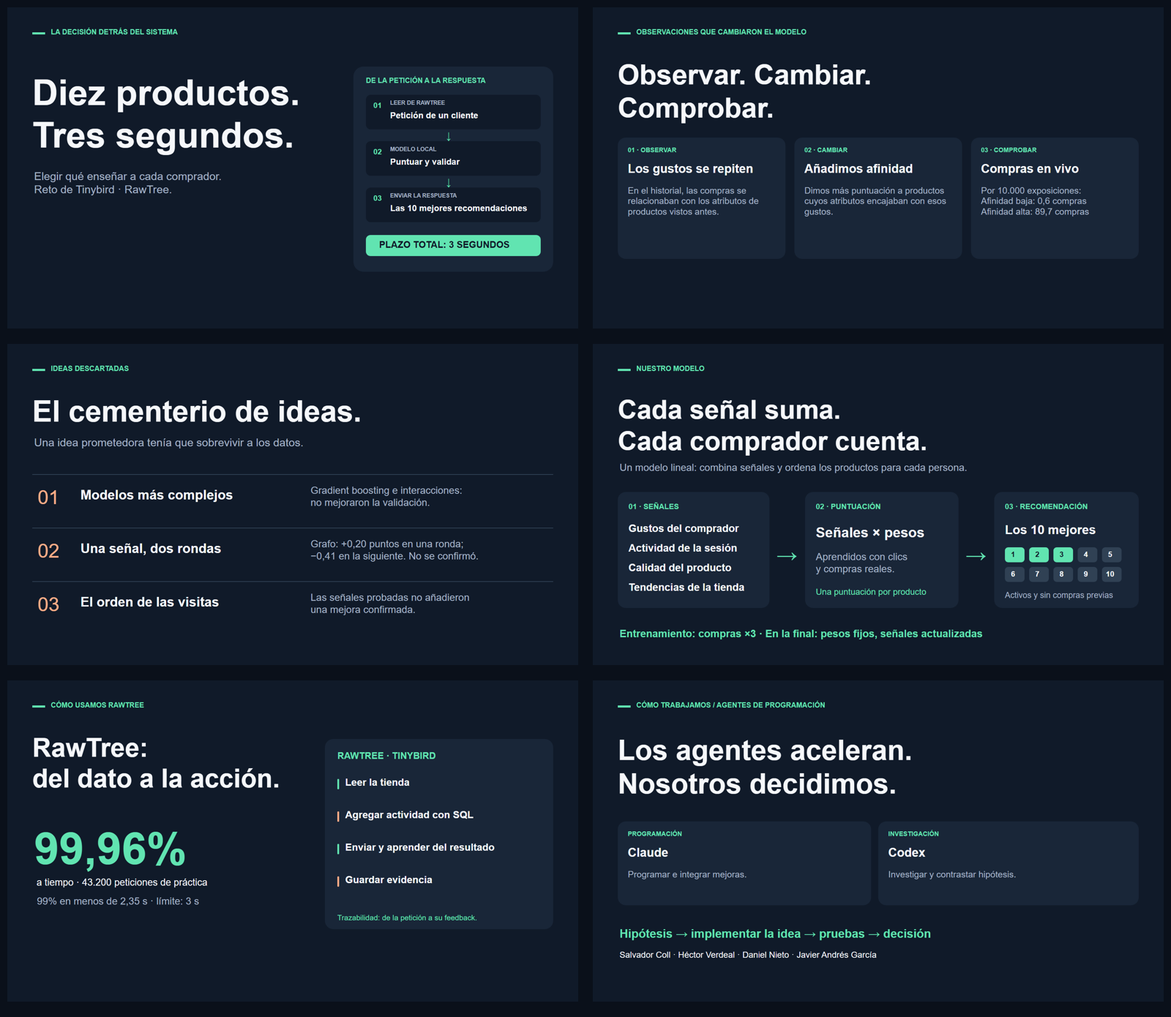
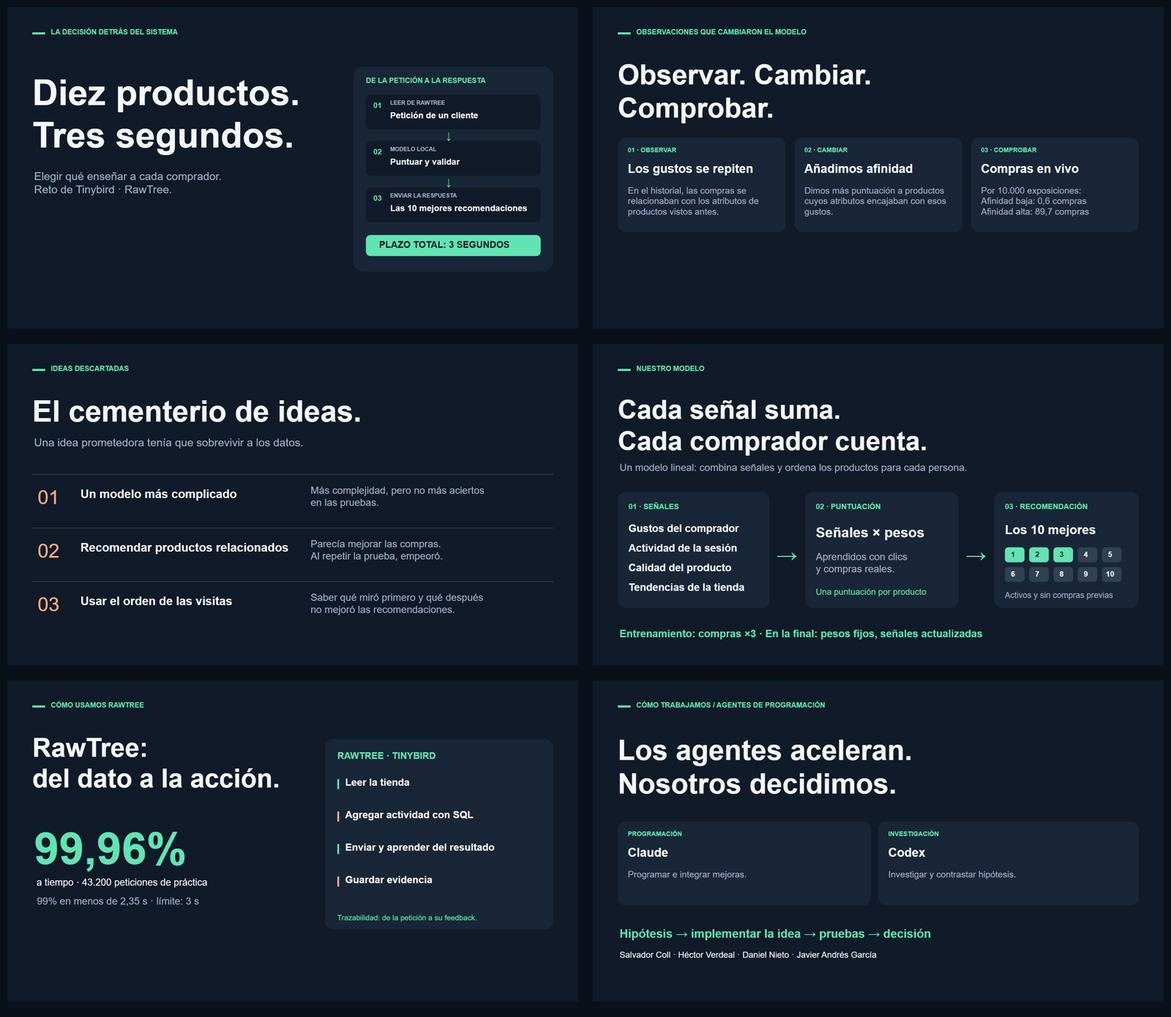
presentation: compact cards and simplify rejected-idea wording

diff --git a/presentation/pitch_3min/pitch.html b/presentation/pitch_3min/pitch.html
@@ -17,7 +17,7 @@ aside{display:none;position:fixed;right:24px;top:24px;max-width:420px;padding:24
 
 dialog#versions{width:min(1440px,95vw);max-height:92vh;padding:12px;background:#101a29;color:#f5f7fa;border:1px solid #61e4b1;border-radius:18px}dialog#versions::backdrop{background:#000b}.close-data{position:sticky;top:0;float:right;z-index:2}
 @page{size:13.333333in 7.5in;margin:0}@media print{html,body,#stage{width:13.333333in;height:auto}#stage{display:block}.slide,.slide.active{display:block;width:13.333333in;height:7.5in;break-after:page;page-break-after:always}.slide:last-child{break-after:auto;page-break-after:auto}nav,aside,dialog{display:none!important}*{-webkit-print-color-adjust:exact;print-color-adjust:exact}}
-</style><main id="stage"><section class="slide" aria-label="Diapositiva 1"><svg xmlns="http://www.w3.org/2000/svg" viewBox="0 0 1600 900" role="img" aria-label="Diez productos. Tres segundos."><rect x="0" y="0" width="1600" height="900" rx="0" fill="#101A29"/><rect x="70" y="70" width="36" height="6" rx="0" fill="#61E4B1"/><text fill="#61E4B1" font-family="Arial, sans-serif" font-size="20" font-weight="700"><tspan x="122" y="75.8">LA DECISIÓN DETRÁS DEL SISTEMA</tspan></text><text fill="#F5F7FA" font-family="Arial, sans-serif" font-size="100" font-weight="700"><tspan x="70" y="274.0">Diez productos.</tspan><tspan x="70" y="393.0">Tres segundos.</tspan></text><text fill="#A6B5C8" font-family="Arial, sans-serif" font-size="31" font-weight="400"><tspan x="75" y="484.14">Elegir qué enseñar a cada comprador.</tspan><tspan x="75" y="521.03">Reto de Tinybird · RawTree.</tspan></text><rect x="970" y="166" width="560" height="575" rx="28" fill="#192638"/><text fill="#61E4B1" font-family="Arial, sans-serif" font-size="20" font-weight="700"><tspan x="1005" y="211.8">DE LA PETICIÓN A LA RESPUESTA</tspan></text><rect x="1005" y="245" width="490" height="97" rx="14" fill="#101A29"/><text fill="#61E4B1" font-family="Arial, sans-serif" font-size="21" font-weight="700"><tspan x="1026" y="281.74">01</tspan></text><text fill="#A6B5C8" font-family="Arial, sans-serif" font-size="16" font-weight="700"><tspan x="1073" y="273.04">LEER DE RAWTREE</tspan></text><text fill="#F5F7FA" font-family="Arial, sans-serif" font-size="24" font-weight="700"><tspan x="1073" y="310.56">Petición de un cliente</tspan></text><text fill="#61E4B1" font-family="Arial, sans-serif" font-size="28" font-weight="400"><tspan x="1230" y="369.32">↓</tspan></text><rect x="1005" y="375" width="490" height="97" rx="14" fill="#101A29"/><text fill="#61E4B1" font-family="Arial, sans-serif" font-size="21" font-weight="700"><tspan x="1026" y="411.74">02</tspan></text><text fill="#A6B5C8" font-family="Arial, sans-serif" font-size="16" font-weight="700"><tspan x="1073" y="403.04">MODELO LOCAL</tspan></text><text fill="#F5F7FA" font-family="Arial, sans-serif" font-size="24" font-weight="700"><tspan x="1073" y="440.56">Puntuar y validar</tspan></text><text fill="#61E4B1" font-family="Arial, sans-serif" font-size="28" font-weight="400"><tspan x="1230" y="499.32">↓</tspan></text><rect x="1005" y="505" width="490" height="97" rx="14" fill="#101A29"/><text fill="#61E4B1" font-family="Arial, sans-serif" font-size="21" font-weight="700"><tspan x="1026" y="541.74">03</tspan></text><text fill="#A6B5C8" font-family="Arial, sans-serif" font-size="16" font-weight="700"><tspan x="1073" y="533.04">ENVIAR LA RESPUESTA</tspan></text><text fill="#F5F7FA" font-family="Arial, sans-serif" font-size="24" font-weight="700"><tspan x="1073" y="570.56">Las 10 mejores recomendaciones</tspan></text><rect x="1005" y="638" width="490" height="59" rx="13" fill="#61E4B1"/><text fill="#101A29" font-family="Arial, sans-serif" font-size="26" font-weight="700"><tspan x="1042" y="674.44">PLAZO TOTAL: 3 SEGUNDOS</tspan></text></svg></section><section class="slide" aria-label="Diapositiva 2"><svg xmlns="http://www.w3.org/2000/svg" viewBox="0 0 1600 900" role="img" aria-label="Observar. Cambiar. Comprobar."><rect x="0" y="0" width="1600" height="900" rx="0" fill="#101A29"/><rect x="70" y="70" width="36" height="6" rx="0" fill="#61E4B1"/><text fill="#61E4B1" font-family="Arial, sans-serif" font-size="20" font-weight="700"><tspan x="122" y="75.8">OBSERVACIONES QUE CAMBIARON EL MODELO</tspan></text><text fill="#F5F7FA" font-family="Arial, sans-serif" font-size="78" font-weight="700"><tspan x="70" y="216.32">Observar. Cambiar.</tspan><tspan x="70" y="309.14">Comprobar.</tspan></text><rect x="70" y="365" width="470" height="340" rx="22" fill="#192638"/><text fill="#61E4B1" font-family="Arial, sans-serif" font-size="18" font-weight="700"><tspan x="98" y="405.92">01 · OBSERVAR</tspan></text><text fill="#F5F7FA" font-family="Arial, sans-serif" font-size="34" font-weight="700"><tspan x="98" y="463.96">Los gustos se repiten</tspan></text><text fill="#A6B5C8" font-family="Arial, sans-serif" font-size="25" font-weight="400"><tspan x="98" y="521.5">En el historial, las compras se</tspan><tspan x="98" y="551.25">relacionaban con los atributos de</tspan><tspan x="98" y="581.0">productos vistos antes.</tspan></text><rect x="565" y="365" width="470" height="340" rx="22" fill="#192638"/><text fill="#61E4B1" font-family="Arial, sans-serif" font-size="18" font-weight="700"><tspan x="593" y="405.92">02 · CAMBIAR</tspan></text><text fill="#F5F7FA" font-family="Arial, sans-serif" font-size="34" font-weight="700"><tspan x="593" y="463.96">Añadimos afinidad</tspan></text><text fill="#A6B5C8" font-family="Arial, sans-serif" font-size="25" font-weight="400"><tspan x="593" y="521.5">Dimos más puntuación a productos</tspan><tspan x="593" y="551.25">cuyos atributos encajaban con esos</tspan><tspan x="593" y="581.0">gustos.</tspan></text><rect x="1060" y="365" width="470" height="340" rx="22" fill="#192638"/><text fill="#61E4B1" font-family="Arial, sans-serif" font-size="18" font-weight="700"><tspan x="1088" y="405.92">03 · COMPROBAR</tspan></text><text fill="#F5F7FA" font-family="Arial, sans-serif" font-size="34" font-weight="700"><tspan x="1088" y="463.96">Compras en vivo</tspan></text><text fill="#A6B5C8" font-family="Arial, sans-serif" font-size="25" font-weight="400"><tspan x="1088" y="521.5">Por 10.000 exposiciones:</tspan><tspan x="1088" y="551.25">Afinidad baja: 0,6 compras</tspan><tspan x="1088" y="581.0">Afinidad alta: 89,7 compras</tspan></text></svg></section><section class="slide" aria-label="Diapositiva 3"><svg xmlns="http://www.w3.org/2000/svg" viewBox="0 0 1600 900" role="img" aria-label="El cementerio de ideas."><rect x="0" y="0" width="1600" height="900" rx="0" fill="#101A29"/><rect x="70" y="70" width="36" height="6" rx="0" fill="#61E4B1"/><text fill="#61E4B1" font-family="Arial, sans-serif" font-size="20" font-weight="700"><tspan x="122" y="75.8">IDEAS DESCARTADAS</tspan></text><text fill="#F5F7FA" font-family="Arial, sans-serif" font-size="83" font-weight="700"><tspan x="70" y="218.01999999999998">El cementerio de ideas.</tspan></text><text fill="#A6B5C8" font-family="Arial, sans-serif" font-size="31" font-weight="400"><tspan x="75" y="287.14">Una idea prometedora tenía que sobrevivir a los datos.</tspan></text><rect x="70" y="365" width="1460" height="2" rx="0" fill="#304154"/><text fill="#FFAC86" font-family="Arial, sans-serif" font-size="55" font-weight="400"><tspan x="85" y="448.7">01</tspan></text><text fill="#F5F7FA" font-family="Arial, sans-serif" font-size="37" font-weight="700"><tspan x="205" y="435.78">Modelos más complejos</tspan></text><text fill="#A6B5C8" font-family="Arial, sans-serif" font-size="28" font-weight="400"><tspan x="850" y="420.32">Gradient boosting e interacciones:</tspan><tspan x="850" y="453.64">no mejoraron la validación.</tspan></text><rect x="70" y="515" width="1460" height="2" rx="0" fill="#304154"/><text fill="#FFAC86" font-family="Arial, sans-serif" font-size="55" font-weight="400"><tspan x="85" y="598.7">02</tspan></text><text fill="#F5F7FA" font-family="Arial, sans-serif" font-size="37" font-weight="700"><tspan x="205" y="585.78">Una señal, dos rondas</tspan></text><text fill="#A6B5C8" font-family="Arial, sans-serif" font-size="28" font-weight="400"><tspan x="850" y="570.32">Grafo: +0,20 puntos en una ronda;</tspan><tspan x="850" y="603.6400000000001">−0,41 en la siguiente. No se confirmó.</tspan></text><rect x="70" y="665" width="1460" height="2" rx="0" fill="#304154"/><text fill="#FFAC86" font-family="Arial, sans-serif" font-size="55" font-weight="400"><tspan x="85" y="748.7">03</tspan></text><text fill="#F5F7FA" font-family="Arial, sans-serif" font-size="37" font-weight="700"><tspan x="205" y="735.78">El orden de las visitas</tspan></text><text fill="#A6B5C8" font-family="Arial, sans-serif" font-size="28" font-weight="400"><tspan x="850" y="720.32">Las señales probadas no añadieron</tspan><tspan x="850" y="753.6400000000001">una mejora confirmada.</tspan></text></svg></section><section class="slide" aria-label="Diapositiva 4"><svg xmlns="http://www.w3.org/2000/svg" viewBox="0 0 1600 900" role="img" aria-label="Cada señal suma. Cada comprador cuenta."><rect x="0" y="0" width="1600" height="900" rx="0" fill="#101A29"/><rect x="70" y="70" width="36" height="6" rx="0" fill="#61E4B1"/><text fill="#61E4B1" font-family="Arial, sans-serif" font-size="20" font-weight="700"><tspan x="122" y="75.8">NUESTRO MODELO</tspan></text><text fill="#F5F7FA" font-family="Arial, sans-serif" font-size="74" font-weight="700"><tspan x="70" y="209.56">Cada señal suma.</tspan><tspan x="70" y="297.62">Cada comprador cuenta.</tspan></text><text fill="#A6B5C8" font-family="Arial, sans-serif" font-size="28" font-weight="400"><tspan x="75" y="356.32">Un modelo lineal: combina señales y ordena los productos para cada persona.</tspan></text><rect x="70" y="415" width="425" height="325" rx="22" fill="#192638"/><text fill="#61E4B1" font-family="Arial, sans-serif" font-size="21" font-weight="700"><tspan x="100" y="462.74">01 · SEÑALES</tspan></text><text fill="#F5F7FA" font-family="Arial, sans-serif" font-size="29" font-weight="700"><tspan x="100" y="527.26">Gustos del comprador</tspan></text><text fill="#F5F7FA" font-family="Arial, sans-serif" font-size="29" font-weight="700"><tspan x="100" y="582.26">Actividad de la sesión</tspan></text><text fill="#F5F7FA" font-family="Arial, sans-serif" font-size="29" font-weight="700"><tspan x="100" y="637.26">Calidad del producto</tspan></text><text fill="#F5F7FA" font-family="Arial, sans-serif" font-size="29" font-weight="700"><tspan x="100" y="692.26">Tendencias de la tienda</tspan></text><text fill="#61E4B1" font-family="Arial, sans-serif" font-size="58" font-weight="700"><tspan x="515" y="609.52">→</tspan></text><rect x="595" y="415" width="430" height="325" rx="22" fill="#192638"/><text fill="#61E4B1" font-family="Arial, sans-serif" font-size="21" font-weight="700"><tspan x="625" y="462.74">02 · PUNTUACIÓN</tspan></text><text fill="#F5F7FA" font-family="Arial, sans-serif" font-size="39" font-weight="700"><tspan x="625" y="541.66">Señales × pesos</tspan></text><text fill="#A6B5C8" font-family="Arial, sans-serif" font-size="28" font-weight="400"><tspan x="625" y="606.32">Aprendidos con clics</tspan><tspan x="625" y="639.6400000000001">y compras reales.</tspan></text><text fill="#61E4B1" font-family="Arial, sans-serif" font-size="24" font-weight="400"><tspan x="625" y="702.56">Una puntuación por producto</tspan></text><text fill="#61E4B1" font-family="Arial, sans-serif" font-size="58" font-weight="700"><tspan x="1045" y="609.52">→</tspan></text><rect x="1125" y="415" width="405" height="325" rx="22" fill="#192638"/><text fill="#61E4B1" font-family="Arial, sans-serif" font-size="21" font-weight="700"><tspan x="1155" y="462.74">03 · RECOMENDACIÓN</tspan></text><text fill="#F5F7FA" font-family="Arial, sans-serif" font-size="35" font-weight="700"><tspan x="1155" y="532.9">Los 10 mejores</tspan></text><rect x="1155" y="570" width="55" height="42" rx="9" fill="#61E4B1"/><text fill="#101A29" font-family="Arial, sans-serif" font-size="21" font-weight="700"><tspan x="1172" y="596.74">1</tspan></text><rect x="1223" y="570" width="55" height="42" rx="9" fill="#61E4B1"/><text fill="#101A29" font-family="Arial, sans-serif" font-size="21" font-weight="700"><tspan x="1240" y="596.74">2</tspan></text><rect x="1291" y="570" width="55" height="42" rx="9" fill="#61E4B1"/><text fill="#101A29" font-family="Arial, sans-serif" font-size="21" font-weight="700"><tspan x="1308" y="596.74">3</tspan></text><rect x="1359" y="570" width="55" height="42" rx="9" fill="#304154"/><text fill="#F5F7FA" font-family="Arial, sans-serif" font-size="21" font-weight="700"><tspan x="1376" y="596.74">4</tspan></text><rect x="1427" y="570" width="55" height="42" rx="9" fill="#304154"/><text fill="#F5F7FA" font-family="Arial, sans-serif" font-size="21" font-weight="700"><tspan x="1444" y="596.74">5</tspan></text><rect x="1155" y="625" width="55" height="42" rx="9" fill="#304154"/><text fill="#F5F7FA" font-family="Arial, sans-serif" font-size="21" font-weight="700"><tspan x="1172" y="651.74">6</tspan></text><rect x="1223" y="625" width="55" height="42" rx="9" fill="#304154"/><text fill="#F5F7FA" font-family="Arial, sans-serif" font-size="21" font-weight="700"><tspan x="1240" y="651.74">7</tspan></text><rect x="1291" y="625" width="55" height="42" rx="9" fill="#304154"/><text fill="#F5F7FA" font-family="Arial, sans-serif" font-size="21" font-weight="700"><tspan x="1308" y="651.74">8</tspan></text><rect x="1359" y="625" width="55" height="42" rx="9" fill="#304154"/><text fill="#F5F7FA" font-family="Arial, sans-serif" font-size="21" font-weight="700"><tspan x="1376" y="651.74">9</tspan></text><rect x="1427" y="625" width="55" height="42" rx="9" fill="#304154"/><text fill="#F5F7FA" font-family="Arial, sans-serif" font-size="21" font-weight="700"><tspan x="1438" y="651.74">10</tspan></text><text fill="#A6B5C8" font-family="Arial, sans-serif" font-size="23" font-weight="400"><tspan x="1155" y="711.62">Activos y sin compras previas</tspan></text><text fill="#61E4B1" font-family="Arial, sans-serif" font-size="29" font-weight="700"><tspan x="75" y="822.26">Entrenamiento: compras ×3 · En la final: pesos fijos, señales actualizadas</tspan></text></svg></section><section class="slide" aria-label="Diapositiva 5"><svg xmlns="http://www.w3.org/2000/svg" viewBox="0 0 1600 900" role="img" aria-label="RawTree: del dato a la acción."><rect x="0" y="0" width="1600" height="900" rx="0" fill="#101A29"/><rect x="70" y="70" width="36" height="6" rx="0" fill="#61E4B1"/><text fill="#61E4B1" font-family="Arial, sans-serif" font-size="20" font-weight="700"><tspan x="122" y="75.8">CÓMO USAMOS RAWTREE</tspan></text><text fill="#F5F7FA" font-family="Arial, sans-serif" font-size="73" font-weight="700"><tspan x="70" y="213.62">RawTree:</tspan><tspan x="70" y="300.49">del dato a la acción.</tspan></text><text fill="#61E4B1" font-family="Arial, sans-serif" font-size="126" font-weight="700"><tspan x="75" y="515.44">99,96%</tspan></text><text fill="#F5F7FA" font-family="Arial, sans-serif" font-size="27" font-weight="400"><tspan x="82" y="575.38">a tiempo · 43.200 peticiones de práctica</tspan></text><text fill="#A6B5C8" font-family="Arial, sans-serif" font-size="28" font-weight="400"><tspan x="83" y="628.32">99% en menos de 2,35 s · límite: 3 s</tspan></text><rect x="890" y="164" width="640" height="533" rx="24" fill="#192638"/><text fill="#61E4B1" font-family="Arial, sans-serif" font-size="26" font-weight="700"><tspan x="925" y="220.44">RAWTREE · TINYBIRD</tspan></text><rect x="925" y="276" width="5" height="29" rx="2" fill="#61E4B1"/><text fill="#F5F7FA" font-family="Arial, sans-serif" font-size="28" font-weight="700"><tspan x="947" y="295.32">Leer la tienda</tspan></text><rect x="925" y="367" width="5" height="29" rx="2" fill="#FFAC86"/><text fill="#F5F7FA" font-family="Arial, sans-serif" font-size="28" font-weight="700"><tspan x="947" y="386.32">Agregar actividad con SQL</tspan></text><rect x="925" y="458" width="5" height="29" rx="2" fill="#61E4B1"/><text fill="#F5F7FA" font-family="Arial, sans-serif" font-size="28" font-weight="700"><tspan x="947" y="477.32">Enviar y aprender del resultado</tspan></text><rect x="925" y="549" width="5" height="29" rx="2" fill="#FFAC86"/><text fill="#F5F7FA" font-family="Arial, sans-serif" font-size="28" font-weight="700"><tspan x="947" y="568.32">Guardar evidencia</tspan></text><text fill="#61E4B1" font-family="Arial, sans-serif" font-size="21" font-weight="400"><tspan x="925" y="671.74">Trazabilidad: de la petición a su feedback.</tspan></text></svg></section><section class="slide" aria-label="Diapositiva 6"><svg xmlns="http://www.w3.org/2000/svg" viewBox="0 0 1600 900" role="img" aria-label="Los agentes aceleran. Nosotros decidimos."><rect x="0" y="0" width="1600" height="900" rx="0" fill="#101A29"/><rect x="70" y="70" width="36" height="6" rx="0" fill="#61E4B1"/><text fill="#61E4B1" font-family="Arial, sans-serif" font-size="20" font-weight="700"><tspan x="122" y="75.8">CÓMO TRABAJAMOS / AGENTES DE PROGRAMACIÓN</tspan></text><text fill="#F5F7FA" font-family="Arial, sans-serif" font-size="79" font-weight="700"><tspan x="70" y="223.26">Los agentes aceleran.</tspan><tspan x="70" y="317.27">Nosotros decidimos.</tspan></text><rect x="70" y="395" width="710" height="235" rx="22" fill="#192638"/><text fill="#61E4B1" font-family="Arial, sans-serif" font-size="18" font-weight="700"><tspan x="98" y="435.92">PROGRAMACIÓN</tspan></text><text fill="#F5F7FA" font-family="Arial, sans-serif" font-size="34" font-weight="700"><tspan x="98" y="493.96">Claude</tspan></text><text fill="#A6B5C8" font-family="Arial, sans-serif" font-size="25" font-weight="400"><tspan x="98" y="551.5">Programar e integrar mejoras.</tspan></text><rect x="800" y="395" width="730" height="235" rx="22" fill="#192638"/><text fill="#61E4B1" font-family="Arial, sans-serif" font-size="18" font-weight="700"><tspan x="828" y="435.92">INVESTIGACIÓN</tspan></text><text fill="#F5F7FA" font-family="Arial, sans-serif" font-size="34" font-weight="700"><tspan x="828" y="493.96">Codex</tspan></text><text fill="#A6B5C8" font-family="Arial, sans-serif" font-size="25" font-weight="400"><tspan x="828" y="551.5">Investigar y contrastar hipótesis.</tspan></text><text fill="#61E4B1" font-family="Arial, sans-serif" font-size="33" font-weight="700"><tspan x="75" y="721.02">Hipótesis → implementar la idea → pruebas → decisión</tspan></text><text fill="#F5F7FA" font-family="Arial, sans-serif" font-size="24" font-weight="400"><tspan x="75" y="776.56">Salvador Coll · Héctor Verdeal · Daniel Nieto · Javier Andrés García</tspan></text></svg></section></main><aside id="notes"></aside>
+</style><main id="stage"><section class="slide" aria-label="Diapositiva 1"><svg xmlns="http://www.w3.org/2000/svg" viewBox="0 0 1600 900" role="img" aria-label="Diez productos. Tres segundos."><rect x="0" y="0" width="1600" height="900" rx="0" fill="#101A29"/><rect x="70" y="70" width="36" height="6" rx="0" fill="#61E4B1"/><text fill="#61E4B1" font-family="Arial, sans-serif" font-size="20" font-weight="700"><tspan x="122" y="75.8">LA DECISIÓN DETRÁS DEL SISTEMA</tspan></text><text fill="#F5F7FA" font-family="Arial, sans-serif" font-size="100" font-weight="700"><tspan x="70" y="274.0">Diez productos.</tspan><tspan x="70" y="393.0">Tres segundos.</tspan></text><text fill="#A6B5C8" font-family="Arial, sans-serif" font-size="31" font-weight="400"><tspan x="75" y="484.14">Elegir qué enseñar a cada comprador.</tspan><tspan x="75" y="521.03">Reto de Tinybird · RawTree.</tspan></text><rect x="970" y="166" width="560" height="575" rx="28" fill="#192638"/><text fill="#61E4B1" font-family="Arial, sans-serif" font-size="20" font-weight="700"><tspan x="1005" y="211.8">DE LA PETICIÓN A LA RESPUESTA</tspan></text><rect x="1005" y="245" width="490" height="97" rx="14" fill="#101A29"/><text fill="#61E4B1" font-family="Arial, sans-serif" font-size="21" font-weight="700"><tspan x="1026" y="281.74">01</tspan></text><text fill="#A6B5C8" font-family="Arial, sans-serif" font-size="16" font-weight="700"><tspan x="1073" y="273.04">LEER DE RAWTREE</tspan></text><text fill="#F5F7FA" font-family="Arial, sans-serif" font-size="24" font-weight="700"><tspan x="1073" y="310.56">Petición de un cliente</tspan></text><text fill="#61E4B1" font-family="Arial, sans-serif" font-size="28" font-weight="400"><tspan x="1230" y="369.32">↓</tspan></text><rect x="1005" y="375" width="490" height="97" rx="14" fill="#101A29"/><text fill="#61E4B1" font-family="Arial, sans-serif" font-size="21" font-weight="700"><tspan x="1026" y="411.74">02</tspan></text><text fill="#A6B5C8" font-family="Arial, sans-serif" font-size="16" font-weight="700"><tspan x="1073" y="403.04">MODELO LOCAL</tspan></text><text fill="#F5F7FA" font-family="Arial, sans-serif" font-size="24" font-weight="700"><tspan x="1073" y="440.56">Puntuar y validar</tspan></text><text fill="#61E4B1" font-family="Arial, sans-serif" font-size="28" font-weight="400"><tspan x="1230" y="499.32">↓</tspan></text><rect x="1005" y="505" width="490" height="97" rx="14" fill="#101A29"/><text fill="#61E4B1" font-family="Arial, sans-serif" font-size="21" font-weight="700"><tspan x="1026" y="541.74">03</tspan></text><text fill="#A6B5C8" font-family="Arial, sans-serif" font-size="16" font-weight="700"><tspan x="1073" y="533.04">ENVIAR LA RESPUESTA</tspan></text><text fill="#F5F7FA" font-family="Arial, sans-serif" font-size="24" font-weight="700"><tspan x="1073" y="570.56">Las 10 mejores recomendaciones</tspan></text><rect x="1005" y="638" width="490" height="59" rx="13" fill="#61E4B1"/><text fill="#101A29" font-family="Arial, sans-serif" font-size="26" font-weight="700"><tspan x="1042" y="674.44">PLAZO TOTAL: 3 SEGUNDOS</tspan></text></svg></section><section class="slide" aria-label="Diapositiva 2"><svg xmlns="http://www.w3.org/2000/svg" viewBox="0 0 1600 900" role="img" aria-label="Observar. Cambiar. Comprobar."><rect x="0" y="0" width="1600" height="900" rx="0" fill="#101A29"/><rect x="70" y="70" width="36" height="6" rx="0" fill="#61E4B1"/><text fill="#61E4B1" font-family="Arial, sans-serif" font-size="20" font-weight="700"><tspan x="122" y="75.8">OBSERVACIONES QUE CAMBIARON EL MODELO</tspan></text><text fill="#F5F7FA" font-family="Arial, sans-serif" font-size="78" font-weight="700"><tspan x="70" y="216.32">Observar. Cambiar.</tspan><tspan x="70" y="309.14">Comprobar.</tspan></text><rect x="70" y="365" width="470" height="265" rx="22" fill="#192638"/><text fill="#61E4B1" font-family="Arial, sans-serif" font-size="18" font-weight="700"><tspan x="98" y="405.92">01 · OBSERVAR</tspan></text><text fill="#F5F7FA" font-family="Arial, sans-serif" font-size="34" font-weight="700"><tspan x="98" y="463.96">Los gustos se repiten</tspan></text><text fill="#A6B5C8" font-family="Arial, sans-serif" font-size="25" font-weight="400"><tspan x="98" y="521.5">En el historial, las compras se</tspan><tspan x="98" y="551.25">relacionaban con los atributos de</tspan><tspan x="98" y="581.0">productos vistos antes.</tspan></text><rect x="565" y="365" width="470" height="265" rx="22" fill="#192638"/><text fill="#61E4B1" font-family="Arial, sans-serif" font-size="18" font-weight="700"><tspan x="593" y="405.92">02 · CAMBIAR</tspan></text><text fill="#F5F7FA" font-family="Arial, sans-serif" font-size="34" font-weight="700"><tspan x="593" y="463.96">Añadimos afinidad</tspan></text><text fill="#A6B5C8" font-family="Arial, sans-serif" font-size="25" font-weight="400"><tspan x="593" y="521.5">Dimos más puntuación a productos</tspan><tspan x="593" y="551.25">cuyos atributos encajaban con esos</tspan><tspan x="593" y="581.0">gustos.</tspan></text><rect x="1060" y="365" width="470" height="265" rx="22" fill="#192638"/><text fill="#61E4B1" font-family="Arial, sans-serif" font-size="18" font-weight="700"><tspan x="1088" y="405.92">03 · COMPROBAR</tspan></text><text fill="#F5F7FA" font-family="Arial, sans-serif" font-size="34" font-weight="700"><tspan x="1088" y="463.96">Compras en vivo</tspan></text><text fill="#A6B5C8" font-family="Arial, sans-serif" font-size="25" font-weight="400"><tspan x="1088" y="521.5">Por 10.000 exposiciones:</tspan><tspan x="1088" y="551.25">Afinidad baja: 0,6 compras</tspan><tspan x="1088" y="581.0">Afinidad alta: 89,7 compras</tspan></text></svg></section><section class="slide" aria-label="Diapositiva 3"><svg xmlns="http://www.w3.org/2000/svg" viewBox="0 0 1600 900" role="img" aria-label="El cementerio de ideas."><rect x="0" y="0" width="1600" height="900" rx="0" fill="#101A29"/><rect x="70" y="70" width="36" height="6" rx="0" fill="#61E4B1"/><text fill="#61E4B1" font-family="Arial, sans-serif" font-size="20" font-weight="700"><tspan x="122" y="75.8">IDEAS DESCARTADAS</tspan></text><text fill="#F5F7FA" font-family="Arial, sans-serif" font-size="83" font-weight="700"><tspan x="70" y="218.01999999999998">El cementerio de ideas.</tspan></text><text fill="#A6B5C8" font-family="Arial, sans-serif" font-size="31" font-weight="400"><tspan x="75" y="287.14">Una idea prometedora tenía que sobrevivir a los datos.</tspan></text><rect x="70" y="365" width="1460" height="2" rx="0" fill="#304154"/><text fill="#FFAC86" font-family="Arial, sans-serif" font-size="55" font-weight="400"><tspan x="85" y="448.7">01</tspan></text><text fill="#F5F7FA" font-family="Arial, sans-serif" font-size="33" font-weight="700"><tspan x="205" y="432.02">Un modelo más complicado</tspan></text><text fill="#A6B5C8" font-family="Arial, sans-serif" font-size="28" font-weight="400"><tspan x="850" y="420.32">Más complejidad, pero no más aciertos</tspan><tspan x="850" y="453.64">en las pruebas.</tspan></text><rect x="70" y="515" width="1460" height="2" rx="0" fill="#304154"/><text fill="#FFAC86" font-family="Arial, sans-serif" font-size="55" font-weight="400"><tspan x="85" y="598.7">02</tspan></text><text fill="#F5F7FA" font-family="Arial, sans-serif" font-size="33" font-weight="700"><tspan x="205" y="582.02">Productos que otros ven juntos</tspan></text><text fill="#A6B5C8" font-family="Arial, sans-serif" font-size="28" font-weight="400"><tspan x="850" y="570.32">Parecía mejorar las compras.</tspan><tspan x="850" y="603.6400000000001">Al repetir la prueba, empeoró.</tspan></text><rect x="70" y="665" width="1460" height="2" rx="0" fill="#304154"/><text fill="#FFAC86" font-family="Arial, sans-serif" font-size="55" font-weight="400"><tspan x="85" y="748.7">03</tspan></text><text fill="#F5F7FA" font-family="Arial, sans-serif" font-size="33" font-weight="700"><tspan x="205" y="732.02">Usar el orden de las visitas</tspan></text><text fill="#A6B5C8" font-family="Arial, sans-serif" font-size="28" font-weight="400"><tspan x="850" y="720.32">Saber qué miró primero y qué después</tspan><tspan x="850" y="753.6400000000001">no mejoró las recomendaciones.</tspan></text></svg></section><section class="slide" aria-label="Diapositiva 4"><svg xmlns="http://www.w3.org/2000/svg" viewBox="0 0 1600 900" role="img" aria-label="Cada señal suma. Cada comprador cuenta."><rect x="0" y="0" width="1600" height="900" rx="0" fill="#101A29"/><rect x="70" y="70" width="36" height="6" rx="0" fill="#61E4B1"/><text fill="#61E4B1" font-family="Arial, sans-serif" font-size="20" font-weight="700"><tspan x="122" y="75.8">NUESTRO MODELO</tspan></text><text fill="#F5F7FA" font-family="Arial, sans-serif" font-size="74" font-weight="700"><tspan x="70" y="209.56">Cada señal suma.</tspan><tspan x="70" y="297.62">Cada comprador cuenta.</tspan></text><text fill="#A6B5C8" font-family="Arial, sans-serif" font-size="28" font-weight="400"><tspan x="75" y="356.32">Un modelo lineal: combina señales y ordena los productos para cada persona.</tspan></text><rect x="70" y="415" width="425" height="325" rx="22" fill="#192638"/><text fill="#61E4B1" font-family="Arial, sans-serif" font-size="21" font-weight="700"><tspan x="100" y="462.74">01 · SEÑALES</tspan></text><text fill="#F5F7FA" font-family="Arial, sans-serif" font-size="29" font-weight="700"><tspan x="100" y="527.26">Gustos del comprador</tspan></text><text fill="#F5F7FA" font-family="Arial, sans-serif" font-size="29" font-weight="700"><tspan x="100" y="582.26">Actividad de la sesión</tspan></text><text fill="#F5F7FA" font-family="Arial, sans-serif" font-size="29" font-weight="700"><tspan x="100" y="637.26">Calidad del producto</tspan></text><text fill="#F5F7FA" font-family="Arial, sans-serif" font-size="29" font-weight="700"><tspan x="100" y="692.26">Tendencias de la tienda</tspan></text><text fill="#61E4B1" font-family="Arial, sans-serif" font-size="58" font-weight="700"><tspan x="515" y="609.52">→</tspan></text><rect x="595" y="415" width="430" height="325" rx="22" fill="#192638"/><text fill="#61E4B1" font-family="Arial, sans-serif" font-size="21" font-weight="700"><tspan x="625" y="462.74">02 · PUNTUACIÓN</tspan></text><text fill="#F5F7FA" font-family="Arial, sans-serif" font-size="39" font-weight="700"><tspan x="625" y="541.66">Señales × pesos</tspan></text><text fill="#A6B5C8" font-family="Arial, sans-serif" font-size="28" font-weight="400"><tspan x="625" y="606.32">Aprendidos con clics</tspan><tspan x="625" y="639.6400000000001">y compras reales.</tspan></text><text fill="#61E4B1" font-family="Arial, sans-serif" font-size="24" font-weight="400"><tspan x="625" y="702.56">Una puntuación por producto</tspan></text><text fill="#61E4B1" font-family="Arial, sans-serif" font-size="58" font-weight="700"><tspan x="1045" y="609.52">→</tspan></text><rect x="1125" y="415" width="405" height="325" rx="22" fill="#192638"/><text fill="#61E4B1" font-family="Arial, sans-serif" font-size="21" font-weight="700"><tspan x="1155" y="462.74">03 · RECOMENDACIÓN</tspan></text><text fill="#F5F7FA" font-family="Arial, sans-serif" font-size="35" font-weight="700"><tspan x="1155" y="532.9">Los 10 mejores</tspan></text><rect x="1155" y="570" width="55" height="42" rx="9" fill="#61E4B1"/><text fill="#101A29" font-family="Arial, sans-serif" font-size="21" font-weight="700"><tspan x="1172" y="596.74">1</tspan></text><rect x="1223" y="570" width="55" height="42" rx="9" fill="#61E4B1"/><text fill="#101A29" font-family="Arial, sans-serif" font-size="21" font-weight="700"><tspan x="1240" y="596.74">2</tspan></text><rect x="1291" y="570" width="55" height="42" rx="9" fill="#61E4B1"/><text fill="#101A29" font-family="Arial, sans-serif" font-size="21" font-weight="700"><tspan x="1308" y="596.74">3</tspan></text><rect x="1359" y="570" width="55" height="42" rx="9" fill="#304154"/><text fill="#F5F7FA" font-family="Arial, sans-serif" font-size="21" font-weight="700"><tspan x="1376" y="596.74">4</tspan></text><rect x="1427" y="570" width="55" height="42" rx="9" fill="#304154"/><text fill="#F5F7FA" font-family="Arial, sans-serif" font-size="21" font-weight="700"><tspan x="1444" y="596.74">5</tspan></text><rect x="1155" y="625" width="55" height="42" rx="9" fill="#304154"/><text fill="#F5F7FA" font-family="Arial, sans-serif" font-size="21" font-weight="700"><tspan x="1172" y="651.74">6</tspan></text><rect x="1223" y="625" width="55" height="42" rx="9" fill="#304154"/><text fill="#F5F7FA" font-family="Arial, sans-serif" font-size="21" font-weight="700"><tspan x="1240" y="651.74">7</tspan></text><rect x="1291" y="625" width="55" height="42" rx="9" fill="#304154"/><text fill="#F5F7FA" font-family="Arial, sans-serif" font-size="21" font-weight="700"><tspan x="1308" y="651.74">8</tspan></text><rect x="1359" y="625" width="55" height="42" rx="9" fill="#304154"/><text fill="#F5F7FA" font-family="Arial, sans-serif" font-size="21" font-weight="700"><tspan x="1376" y="651.74">9</tspan></text><rect x="1427" y="625" width="55" height="42" rx="9" fill="#304154"/><text fill="#F5F7FA" font-family="Arial, sans-serif" font-size="21" font-weight="700"><tspan x="1438" y="651.74">10</tspan></text><text fill="#A6B5C8" font-family="Arial, sans-serif" font-size="23" font-weight="400"><tspan x="1155" y="711.62">Activos y sin compras previas</tspan></text><text fill="#61E4B1" font-family="Arial, sans-serif" font-size="29" font-weight="700"><tspan x="75" y="822.26">Entrenamiento: compras ×3 · En la final: pesos fijos, señales actualizadas</tspan></text></svg></section><section class="slide" aria-label="Diapositiva 5"><svg xmlns="http://www.w3.org/2000/svg" viewBox="0 0 1600 900" role="img" aria-label="RawTree: del dato a la acción."><rect x="0" y="0" width="1600" height="900" rx="0" fill="#101A29"/><rect x="70" y="70" width="36" height="6" rx="0" fill="#61E4B1"/><text fill="#61E4B1" font-family="Arial, sans-serif" font-size="20" font-weight="700"><tspan x="122" y="75.8">CÓMO USAMOS RAWTREE</tspan></text><text fill="#F5F7FA" font-family="Arial, sans-serif" font-size="73" font-weight="700"><tspan x="70" y="213.62">RawTree:</tspan><tspan x="70" y="300.49">del dato a la acción.</tspan></text><text fill="#61E4B1" font-family="Arial, sans-serif" font-size="126" font-weight="700"><tspan x="75" y="515.44">99,96%</tspan></text><text fill="#F5F7FA" font-family="Arial, sans-serif" font-size="27" font-weight="400"><tspan x="82" y="575.38">a tiempo · 43.200 peticiones de práctica</tspan></text><text fill="#A6B5C8" font-family="Arial, sans-serif" font-size="28" font-weight="400"><tspan x="83" y="628.32">99% en menos de 2,35 s · límite: 3 s</tspan></text><rect x="890" y="164" width="640" height="533" rx="24" fill="#192638"/><text fill="#61E4B1" font-family="Arial, sans-serif" font-size="26" font-weight="700"><tspan x="925" y="220.44">RAWTREE · TINYBIRD</tspan></text><rect x="925" y="276" width="5" height="29" rx="2" fill="#61E4B1"/><text fill="#F5F7FA" font-family="Arial, sans-serif" font-size="28" font-weight="700"><tspan x="947" y="295.32">Leer la tienda</tspan></text><rect x="925" y="367" width="5" height="29" rx="2" fill="#FFAC86"/><text fill="#F5F7FA" font-family="Arial, sans-serif" font-size="28" font-weight="700"><tspan x="947" y="386.32">Agregar actividad con SQL</tspan></text><rect x="925" y="458" width="5" height="29" rx="2" fill="#61E4B1"/><text fill="#F5F7FA" font-family="Arial, sans-serif" font-size="28" font-weight="700"><tspan x="947" y="477.32">Enviar y aprender del resultado</tspan></text><rect x="925" y="549" width="5" height="29" rx="2" fill="#FFAC86"/><text fill="#F5F7FA" font-family="Arial, sans-serif" font-size="28" font-weight="700"><tspan x="947" y="568.32">Guardar evidencia</tspan></text><text fill="#61E4B1" font-family="Arial, sans-serif" font-size="21" font-weight="400"><tspan x="925" y="671.74">Trazabilidad: de la petición a su feedback.</tspan></text></svg></section><section class="slide" aria-label="Diapositiva 6"><svg xmlns="http://www.w3.org/2000/svg" viewBox="0 0 1600 900" role="img" aria-label="Los agentes aceleran. Nosotros decidimos."><rect x="0" y="0" width="1600" height="900" rx="0" fill="#101A29"/><rect x="70" y="70" width="36" height="6" rx="0" fill="#61E4B1"/><text fill="#61E4B1" font-family="Arial, sans-serif" font-size="20" font-weight="700"><tspan x="122" y="75.8">CÓMO TRABAJAMOS / AGENTES DE PROGRAMACIÓN</tspan></text><text fill="#F5F7FA" font-family="Arial, sans-serif" font-size="79" font-weight="700"><tspan x="70" y="223.26">Los agentes aceleran.</tspan><tspan x="70" y="317.27">Nosotros decidimos.</tspan></text><rect x="70" y="395" width="710" height="235" rx="22" fill="#192638"/><text fill="#61E4B1" font-family="Arial, sans-serif" font-size="18" font-weight="700"><tspan x="98" y="435.92">PROGRAMACIÓN</tspan></text><text fill="#F5F7FA" font-family="Arial, sans-serif" font-size="34" font-weight="700"><tspan x="98" y="493.96">Claude</tspan></text><text fill="#A6B5C8" font-family="Arial, sans-serif" font-size="25" font-weight="400"><tspan x="98" y="551.5">Programar e integrar mejoras.</tspan></text><rect x="800" y="395" width="730" height="235" rx="22" fill="#192638"/><text fill="#61E4B1" font-family="Arial, sans-serif" font-size="18" font-weight="700"><tspan x="828" y="435.92">INVESTIGACIÓN</tspan></text><text fill="#F5F7FA" font-family="Arial, sans-serif" font-size="34" font-weight="700"><tspan x="828" y="493.96">Codex</tspan></text><text fill="#A6B5C8" font-family="Arial, sans-serif" font-size="25" font-weight="400"><tspan x="828" y="551.5">Investigar y contrastar hipótesis.</tspan></text><text fill="#61E4B1" font-family="Arial, sans-serif" font-size="33" font-weight="700"><tspan x="75" y="721.02">Hipótesis → implementar la idea → pruebas → decisión</tspan></text><text fill="#F5F7FA" font-family="Arial, sans-serif" font-size="24" font-weight="400"><tspan x="75" y="776.56">Salvador Coll · Héctor Verdeal · Daniel Nieto · Javier Andrés García</tspan></text></svg></section></main><aside id="notes"></aside>
 <dialog id="versions"><button class="close-data" onclick="document.getElementById('versions').close()">Volver al pitch · Esc</button>
 <main class="version-data">
 <h1>Datos por versión</h1>

diff --git a/presentation/pitch_3min/build_pitch.py b/presentation/pitch_3min/build_pitch.py
@@ -236,24 +236,24 @@ text(s, 1042, 650, "PLAZO TOTAL: 3 SEGUNDOS", 26, C["bg"], True)
 
 s = slide("Observaciones que cambiaron el modelo", "Observar. Cambiar. Comprobar.", 35, "", "")
 text(s, 70, 143, "Observar. Cambiar.\nComprobar.", 78, bold=True)
-card(s, 70, 365, 470, 340, "01 · OBSERVAR", "Los gustos se repiten",
+card(s, 70, 365, 470, 265, "01 · OBSERVAR", "Los gustos se repiten",
      "En el historial, las compras se relacionaban con los atributos de productos vistos antes.")
-card(s, 565, 365, 470, 340, "02 · CAMBIAR", "Añadimos afinidad",
+card(s, 565, 365, 470, 265, "02 · CAMBIAR", "Añadimos afinidad",
      "Dimos más puntuación a productos cuyos atributos encajaban con esos gustos.")
-card(s, 1060, 365, 470, 340, "03 · COMPROBAR", "Compras en vivo",
+card(s, 1060, 365, 470, 265, "03 · COMPROBAR", "Compras en vivo",
      "Por 10.000 exposiciones:\nAfinidad baja: 0,6 compras\nAfinidad alta: 89,7 compras")
 
 s = slide("Ideas descartadas", "El cementerio de ideas.", 35, "", "")
 text(s, 70, 140, "El cementerio de ideas.", 83, bold=True)
 text(s, 75, 258, "Una idea prometedora tenía que sobrevivir a los datos.", 31, C["muted"])
 for y, num, idea, result in [
-    (365, "01", "Modelos más complejos", "Gradient boosting e interacciones:\nno mejoraron la validación."),
-    (515, "02", "Una señal, dos rondas", "Grafo: +0,20 puntos en una ronda;\n−0,41 en la siguiente. No se confirmó."),
-    (665, "03", "El orden de las visitas", "Las señales probadas no añadieron\nuna mejora confirmada."),
+    (365, "01", "Un modelo más complicado", "Más complejidad, pero no más aciertos\nen las pruebas."),
+    (515, "02", "Productos que otros ven juntos", "Parecía mejorar las compras.\nAl repetir la prueba, empeoró."),
+    (665, "03", "Usar el orden de las visitas", "Saber qué miró primero y qué después\nno mejoró las recomendaciones."),
 ]:
     rect(s, 70, y, 1460, 2, C["line"])
     text(s, 85, y+32, num, 55, C["orange"])
-    text(s, 205, y+36, idea, 37, bold=True)
+    text(s, 205, y+36, idea, 33, bold=True)
     text(s, 850, y+29, result, 28, C["muted"], width=650)
 
 s = slide("Nuestro modelo", "Cada señal suma. Cada comprador cuenta.", 35, "", "")

diff --git a/tasks.md b/tasks.md
@@ -4,6 +4,7 @@
 
 | Task | Priority | Workstream and deliverable | Owner/branch | Status | Dependencies |
 |---|---|---|---|---|---|
+| T-PITCH-21 | P1 | Compact observation cards and plain-language rejected ideas | Codex / codex/pitch-3min | DONE: observation cards reduced from 340 to 265px; discarded ideas described in plain language; layouts rendered | Presentation only |
 | T-PITCH-20 | P1 | Rejected-ideas graveyard and visual model explanation | Codex / codex/pitch-3min | DONE: third slide has only three measured rejections; fourth shows signals -> weighted scoring -> valid ten; both rendered and visually reviewed | Presentation only; documented rejected variants |
 | T-PITCH-19 | P1 | Visual performance progression with matched reference markers | Codex / codex/pitch-3min | DONE: three zero-based bars, same-window reference markers; source and mixed-start limitation documented; slide visually reviewed | Documented practice snapshots only; no final result |
 | T-PITCH-18 | P1 | Rebuild rejected-ideas/final-approach slide and improve closing title | Codex / codex/pitch-3min | DONE: third slide now discarded ideas vs final linear approach; closing title Los agentes aceleran / Nosotros decidimos; renders and notes regenerated | Presentation only |
